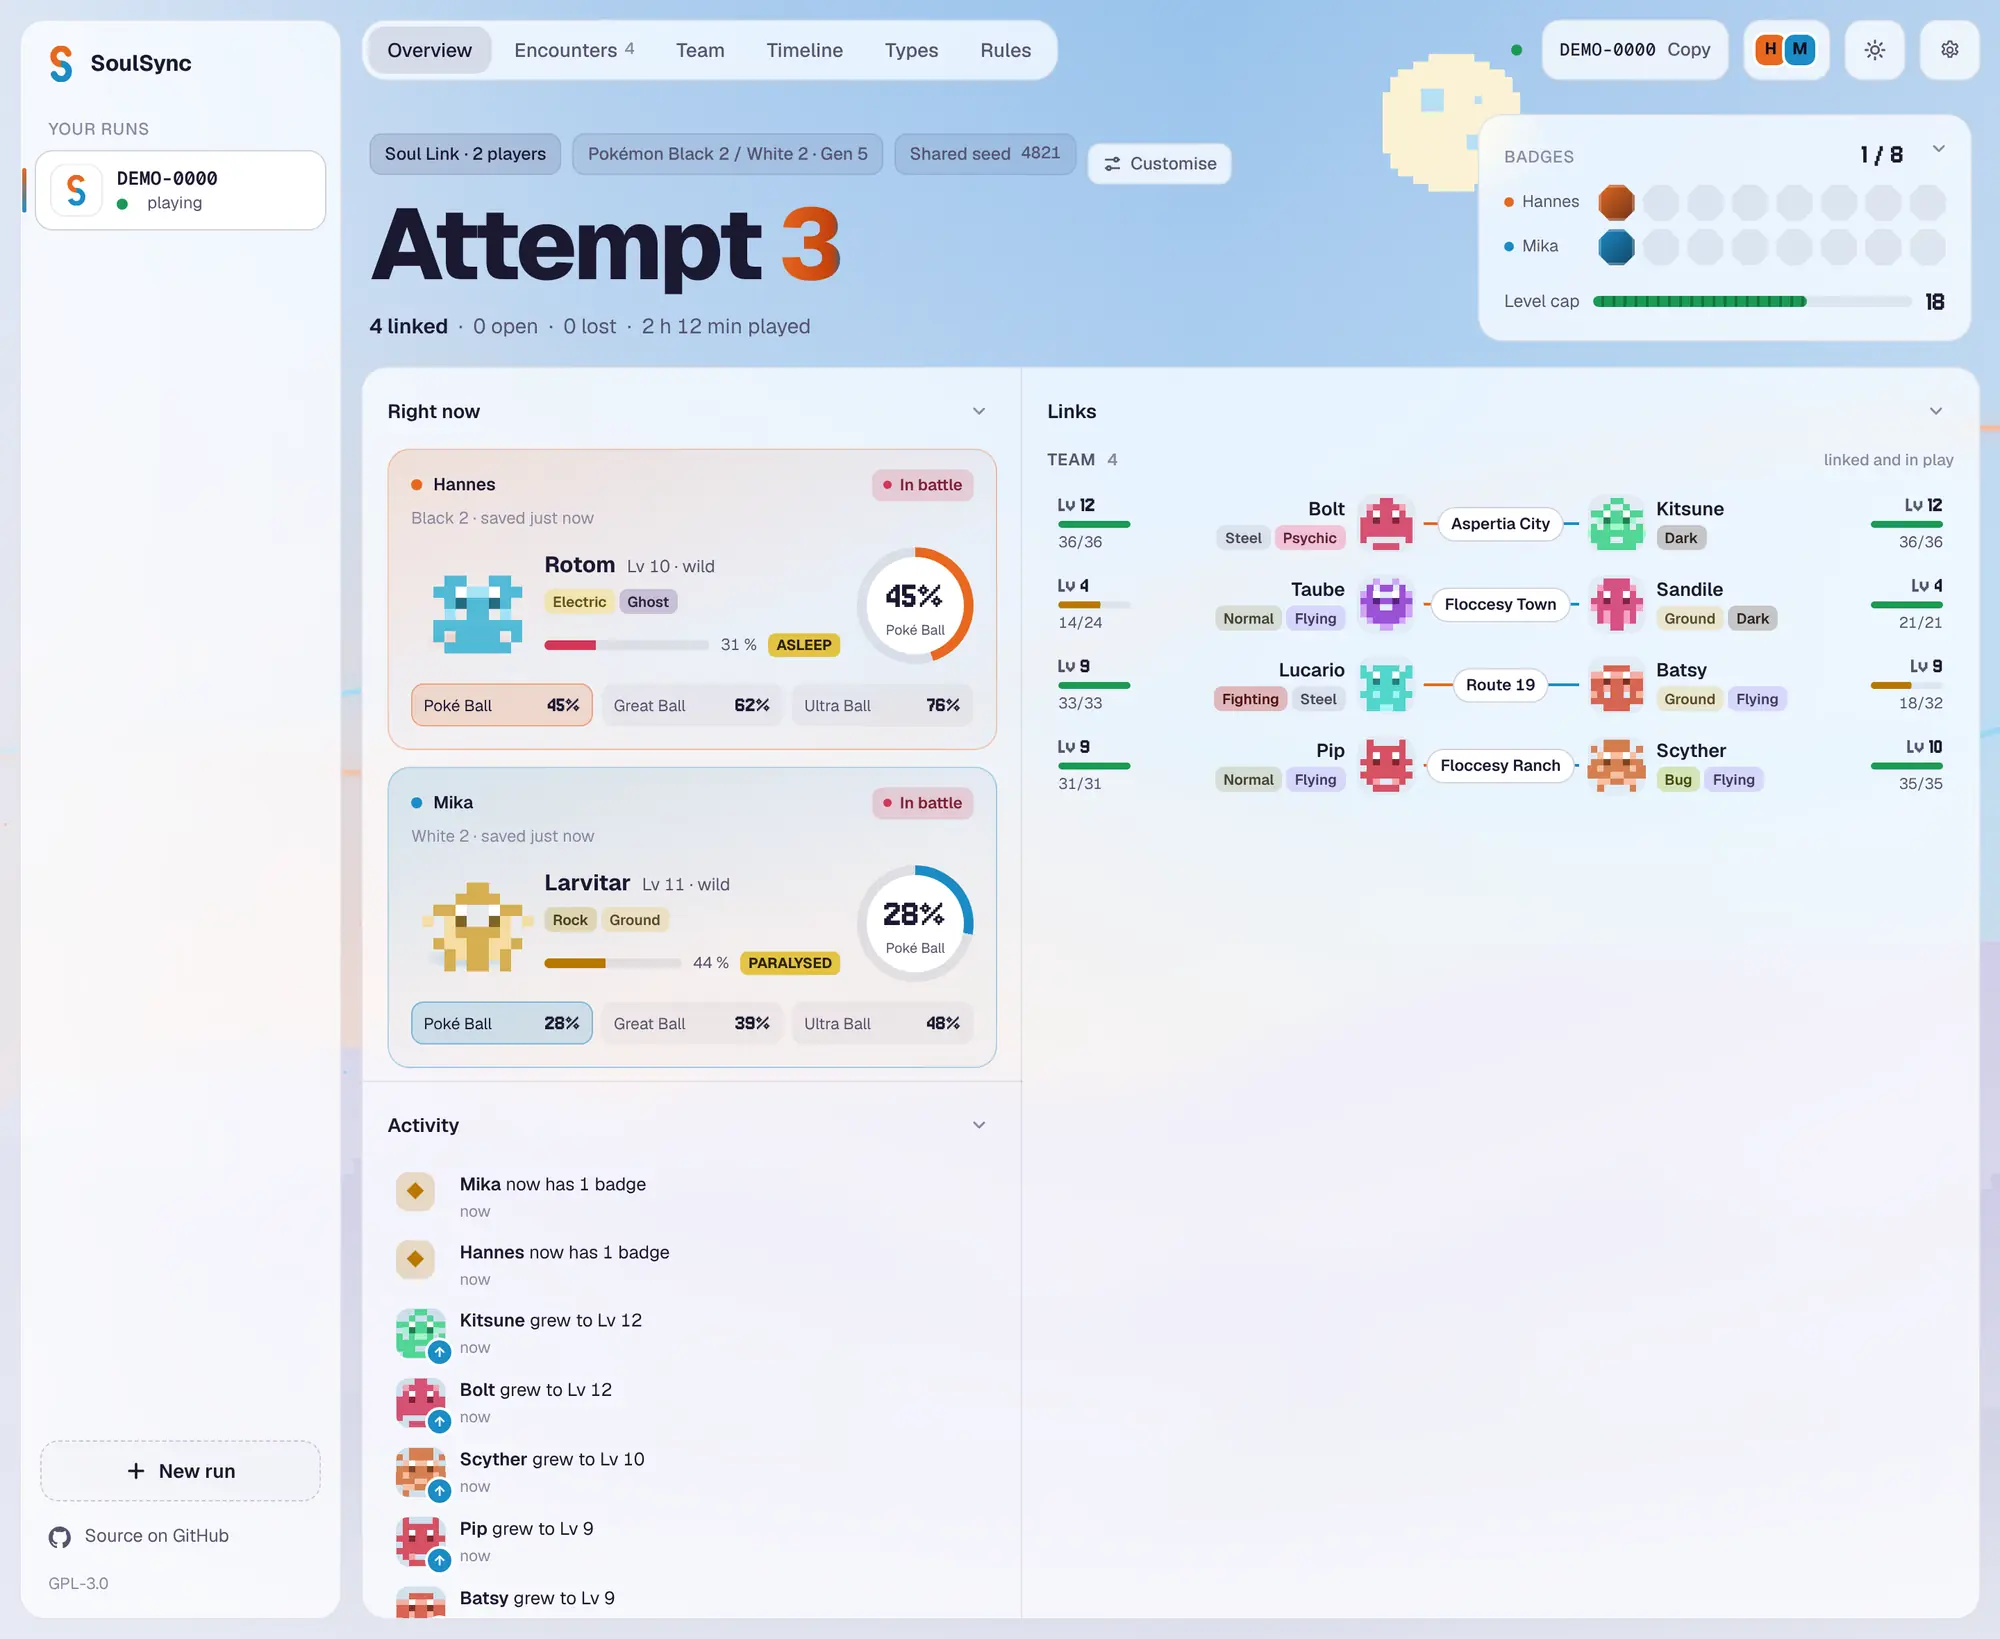
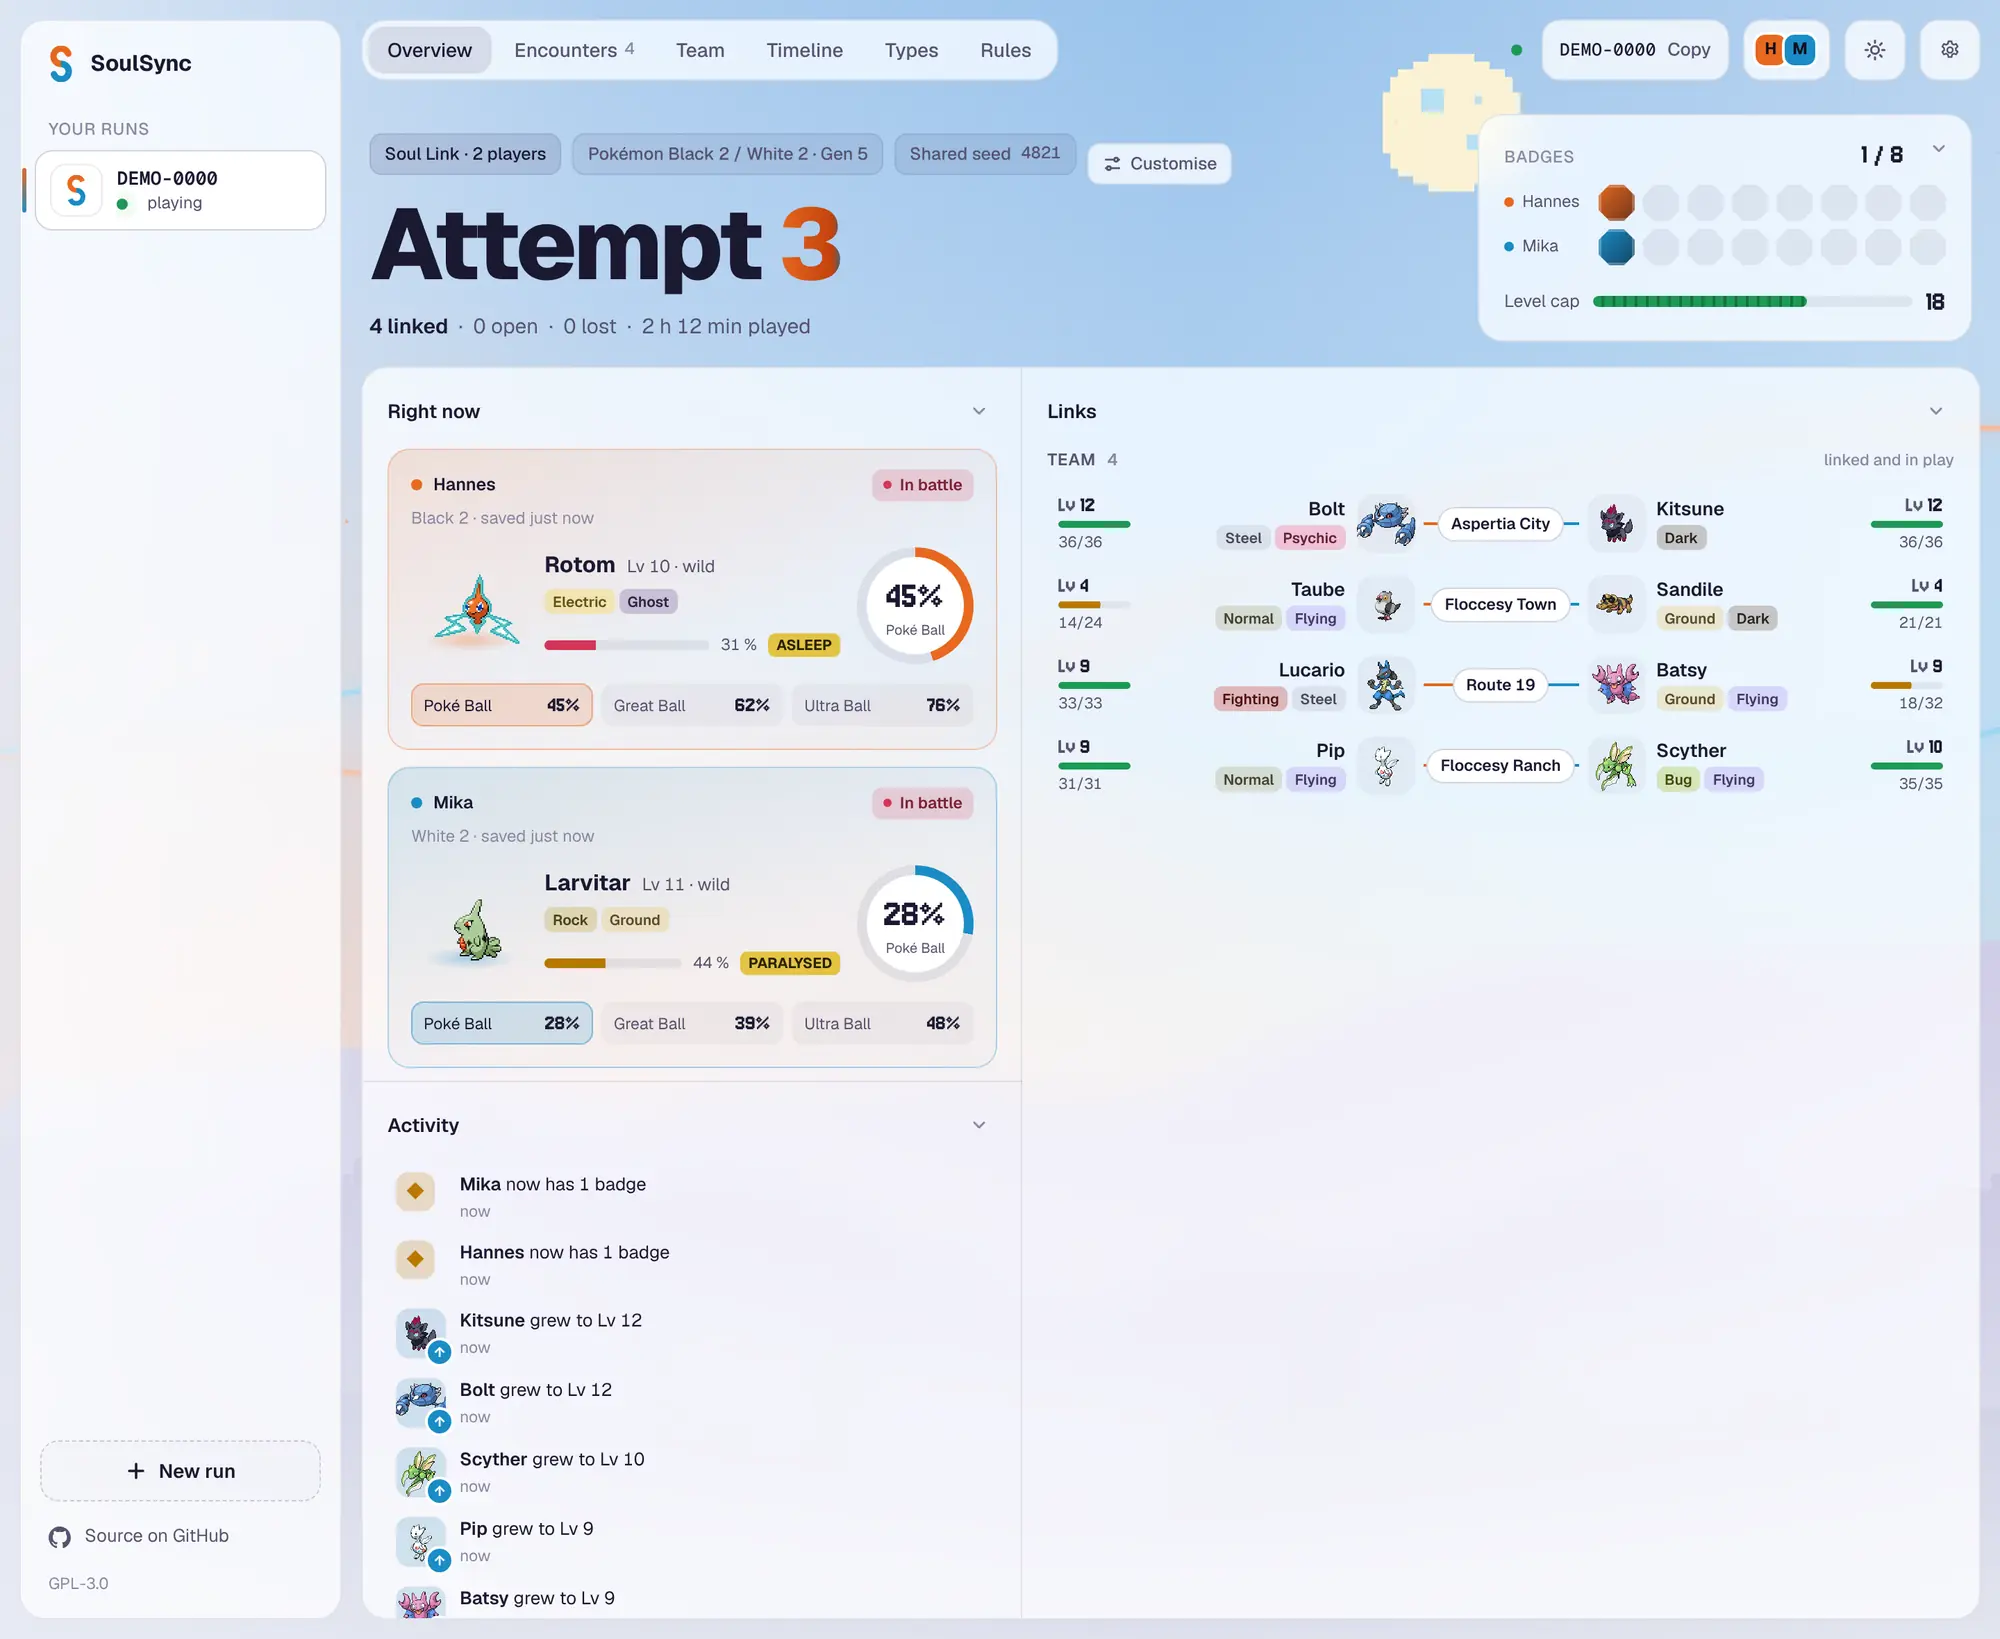
README: open with a motion demo and show real sprites in the screenshots
The screenshots are retaken with the sprites the app loads at runtime;
take.js draws the placeholder figures only with SOULSYNC_PLACEHOLDERS=1.

Claude-Session: https://claude.ai/code/session_01Jh5A2PqT1iL11UVfeNt9Gr

diff --git a/docs/screenshots/take.js b/docs/screenshots/take.js
@@ -1,10 +1,11 @@
-// Takes the README screenshots from the dashboard's demo, with original
-// placeholder figures in place of game sprites.
+// Takes the README screenshots from the dashboard's demo. Sprites come from
+// the server's sprite source, as in the app.
 //
 //   cargo run -p soulsync-server &
 //   node docs/screenshots/take.js        # needs Playwright and ImageMagick
 //
-// Set SOULSYNC_URL if the server is not on http://localhost:3000.
+// Set SOULSYNC_URL if the server is not on http://localhost:3000, and
+// SOULSYNC_PLACEHOLDERS=1 to draw original placeholder figures instead.
 const { chromium } = require("playwright");
 const { execFileSync } = require("child_process");
 const path = require("path");
@@ -37,7 +38,7 @@ const ident = () => {
 
 async function open(browser, colorScheme, height = 900) {
   const page = await browser.newPage({ viewport: { width: 1440, height }, deviceScaleFactor: 2, colorScheme });
-  await page.addInitScript(ident);
+  if (process.env.SOULSYNC_PLACEHOLDERS) await page.addInitScript(ident);
   await page.goto(URL);
   return page;
 }

diff --git a/README.md b/README.md
@@ -14,13 +14,8 @@
 </p>
 
 <p align="center">
-  <picture>
-    <source media="(prefers-color-scheme: dark)" srcset="docs/screenshots/overview-dark.webp">
-    <img src="docs/screenshots/overview.webp" alt="The SoulSync dashboard: two players' linked Pokémon side by side, with badges, level cap and a rule warning" width="900">
-  </picture>
+  <img src="docs/screenshots/soulsync.gif" alt="SoulSync in 20 seconds: a catch in DeSmuME shows up for the partner, both players' catch chance in a wild battle, a lost link, and a new randomized attempt in one click" width="900">
 </p>
-
-<p align="center"><sub>The dashboard in its demo mode. The figures are placeholder art, see <a href="#legal">Legal</a>.</sub></p>
 
 > [!NOTE]
 > **SoulSync is young.** It has been played on Windows with DeSmuME, solo and with friends, mostly with German copies of Black 2 and White 2. Other languages and Black/White should work but have seen little or no testing. Expect rough edges, and please [report what breaks](https://github.com/hildlabs/SoulSync/issues).
@@ -38,6 +33,15 @@ In a Soul Link, two or more players play the same game side by side. The first P
 - **Made for randomized games.** Moves, abilities and learnsets come from each player's own ROM, so the dashboard shows what is really in it.
 - **Runs that last.** Pause a run, switch to another and come back later. Every attempt keeps its real time played, and once it ends, won or lost, it goes to an archive with its badges and final teams.
 - **English and German**, light and dark.
+
+<p align="center">
+  <picture>
+    <source media="(prefers-color-scheme: dark)" srcset="docs/screenshots/overview-dark.webp">
+    <img src="docs/screenshots/overview.webp" alt="The SoulSync dashboard: two players' linked Pokémon side by side, with badges, level cap and a rule warning" width="900">
+  </picture>
+</p>
+
+<p align="center"><sub>The dashboard in its demo mode.</sub></p>
 
 <table>
   <tr>
@@ -215,4 +219,4 @@ SoulSync is licensed under [GPL-3.0-or-later](LICENSE).
 
 SoulSync is an unofficial fan project and is not affiliated with or endorsed by Nintendo, Creatures or GAME FREAK. Pokémon and its names are trademarks of Nintendo, Creatures and GAME FREAK.
 
-The repository contains no game data or graphics. SoulSync does not include or distribute ROMs; every player uses their own. Sprites are loaded at runtime from a public source while you play and can be turned off with `SOULSYNC_SPRITES=off` on the server. The screenshots in this README use original placeholder figures in their place.
+The repository contains no game data and no sprite files. SoulSync does not include or distribute ROMs; every player uses their own. Sprites are loaded at runtime from a public source while you play and can be turned off with `SOULSYNC_SPRITES=off` on the server. The screenshots and the animation in this README show those sprites as they appear in the app.
